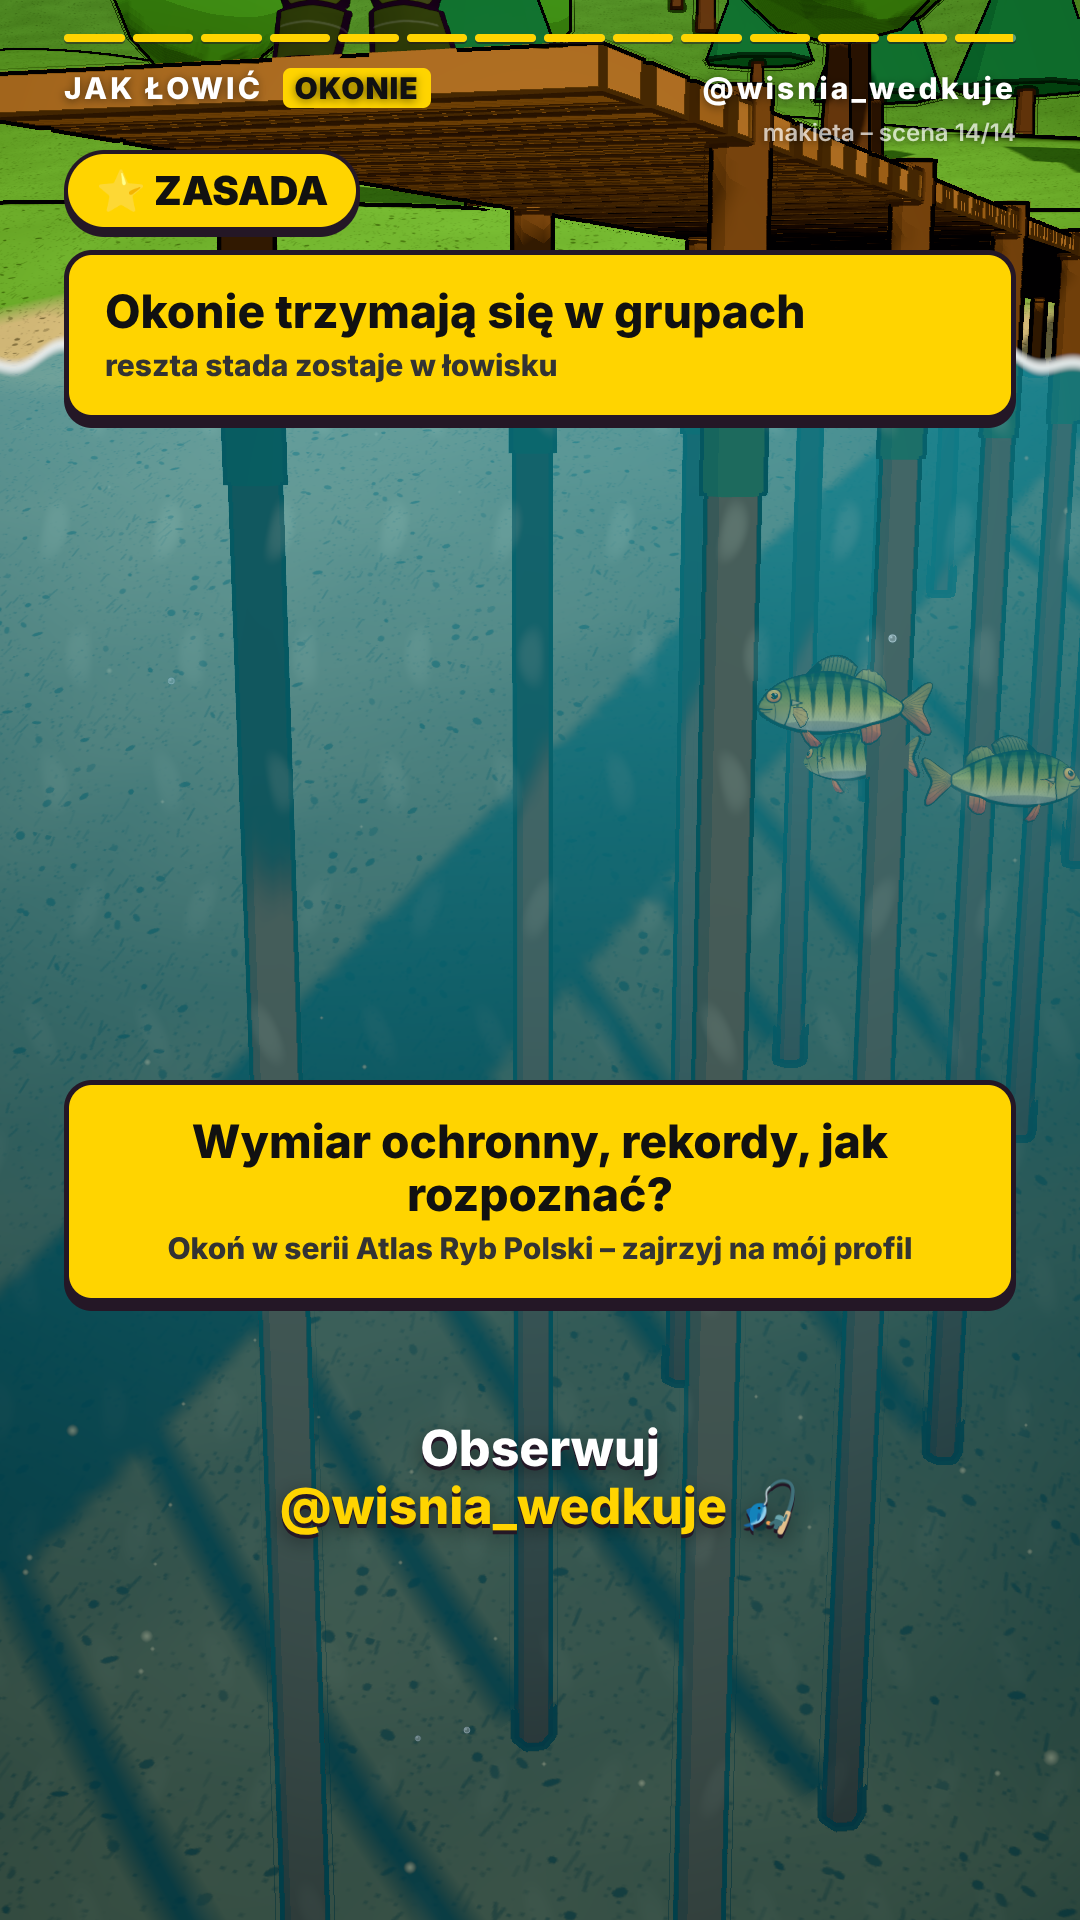
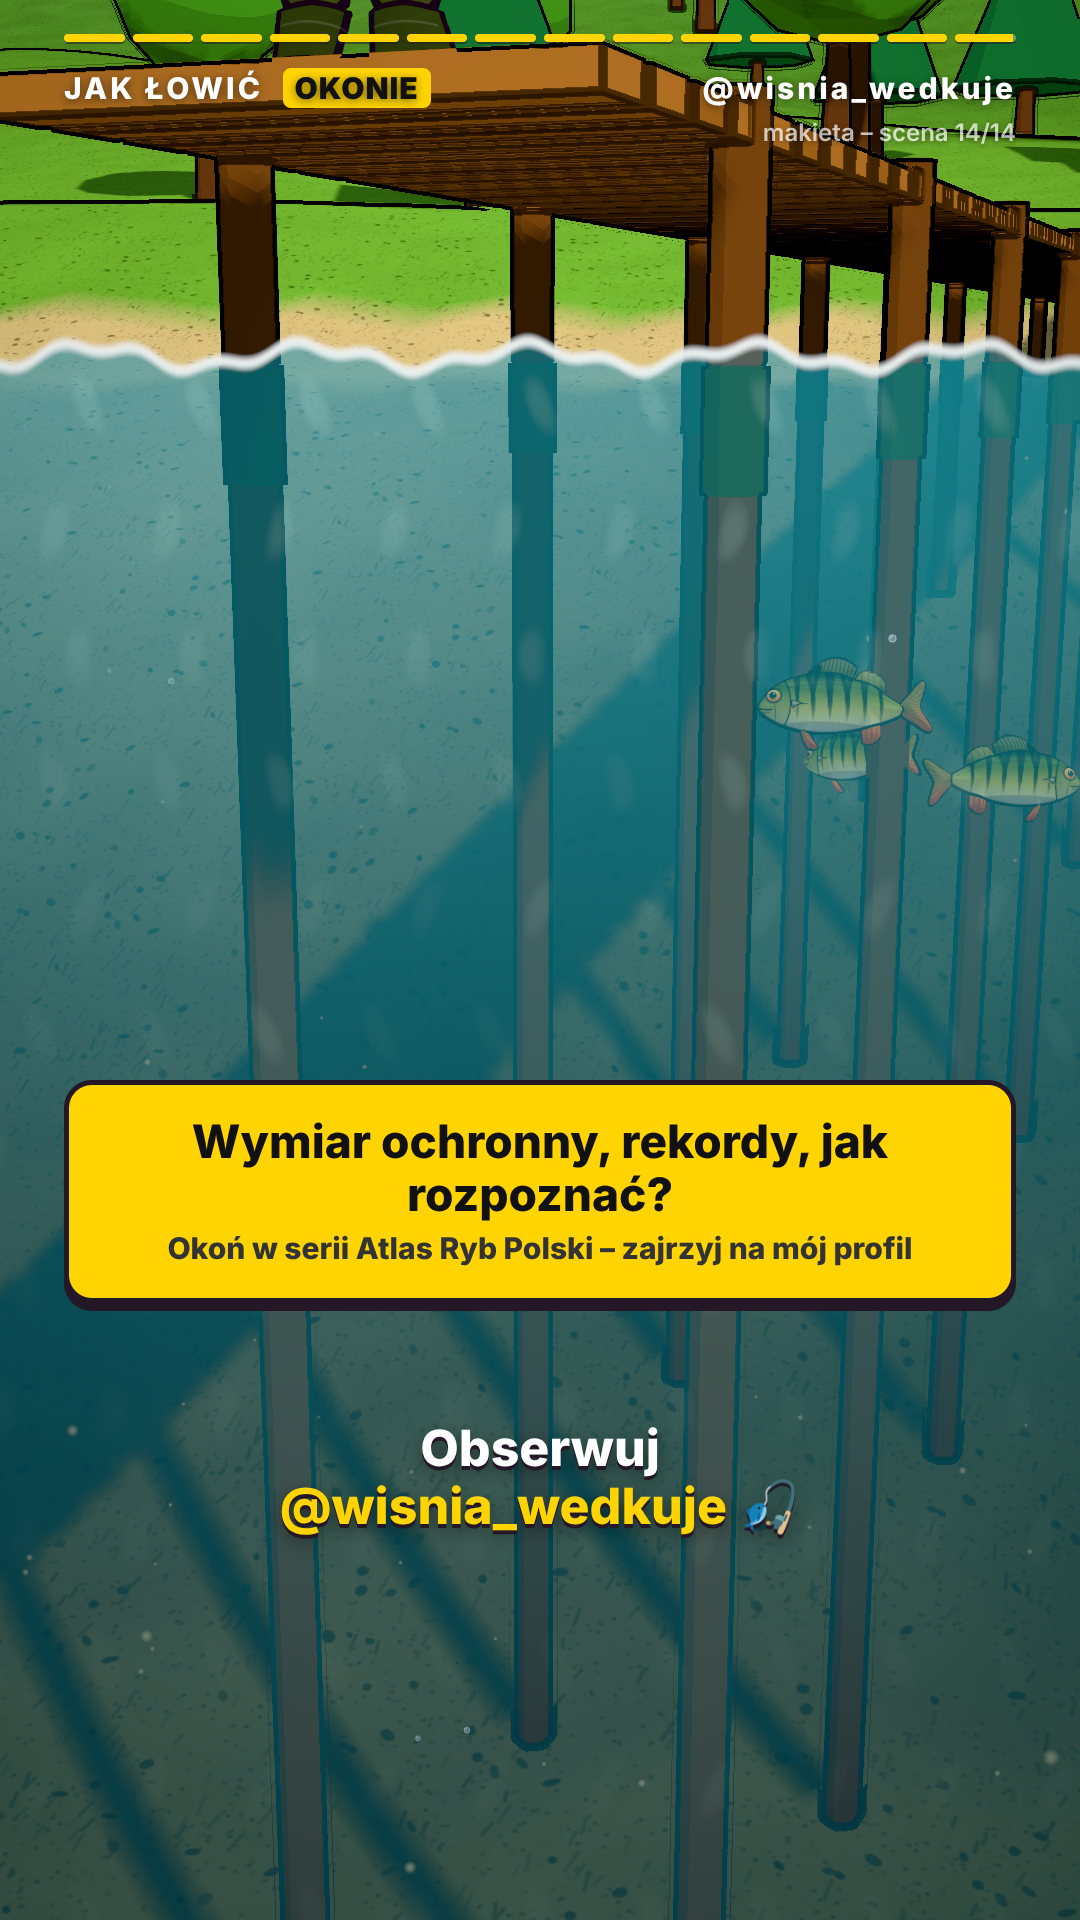
Okonie v2: na ostatnim ekranie tylko zaproszenie na profil
Claude-Session: https://claude.ai/code/session_01YFDAx3363ZnHR5mXZwci3a

Changed region(s): [[0.0611, 0.0625, 0.9472, 0.25], [0.7944, 0.3438, 0.8556, 0.4062], [0.7333, 0.375, 0.7639, 0.4062]]

diff --git a/atlas3d/okon_jak2.html b/atlas3d/okon_jak2.html
@@ -241,7 +241,7 @@ const SCENY = {
     wskaz('stado w łowisku', 0, 0, 0, -120, -150, 'n', 2.4, 6); przypnij(stado[0], [0, .1, 0]);
     etykieta('Do wody!', PX + .55, 1.95, -3.6, 'dymek', 8.8, 10.4);
     dzwiek(10.2, 'plusk', .55);
-    return `<div class="chip" data-od=".2">⭐ ZASADA</div><div class="karta z" style="top:250px" data-od=".6">Okonie trzymają się w grupach<small>reszta stada zostaje w łowisku</small></div>
+    return `<div class="chip" data-od=".2" data-do="21.6">⭐ ZASADA</div><div class="karta z" style="top:250px" data-od=".6" data-do="21.6">Okonie trzymają się w grupach<small>reszta stada zostaje w łowisku</small></div>
       <div class="karta" style="top:1480px" data-od="8" data-do="17">Wypuść go kawałek dalej<small>spłoszony okoń może pociągnąć za sobą stado</small></div>
       <h1 class="cta" data-od="17.4" data-do="21.6">Już wiesz,<br><span>jak łowić okonie?</span></h1><div class="opis" style="top:1460px;text-align:center" data-od="18.6" data-do="21.6">Napisz swoją ulubioną przynętę! 👇</div>
       <div class="karta z" style="top:1080px;text-align:center" data-od="22">Wymiar ochronny, rekordy, jak rozpoznać?<small>Okoń w serii Atlas Ryb Polski – zajrzyj na mój profil</small></div>
